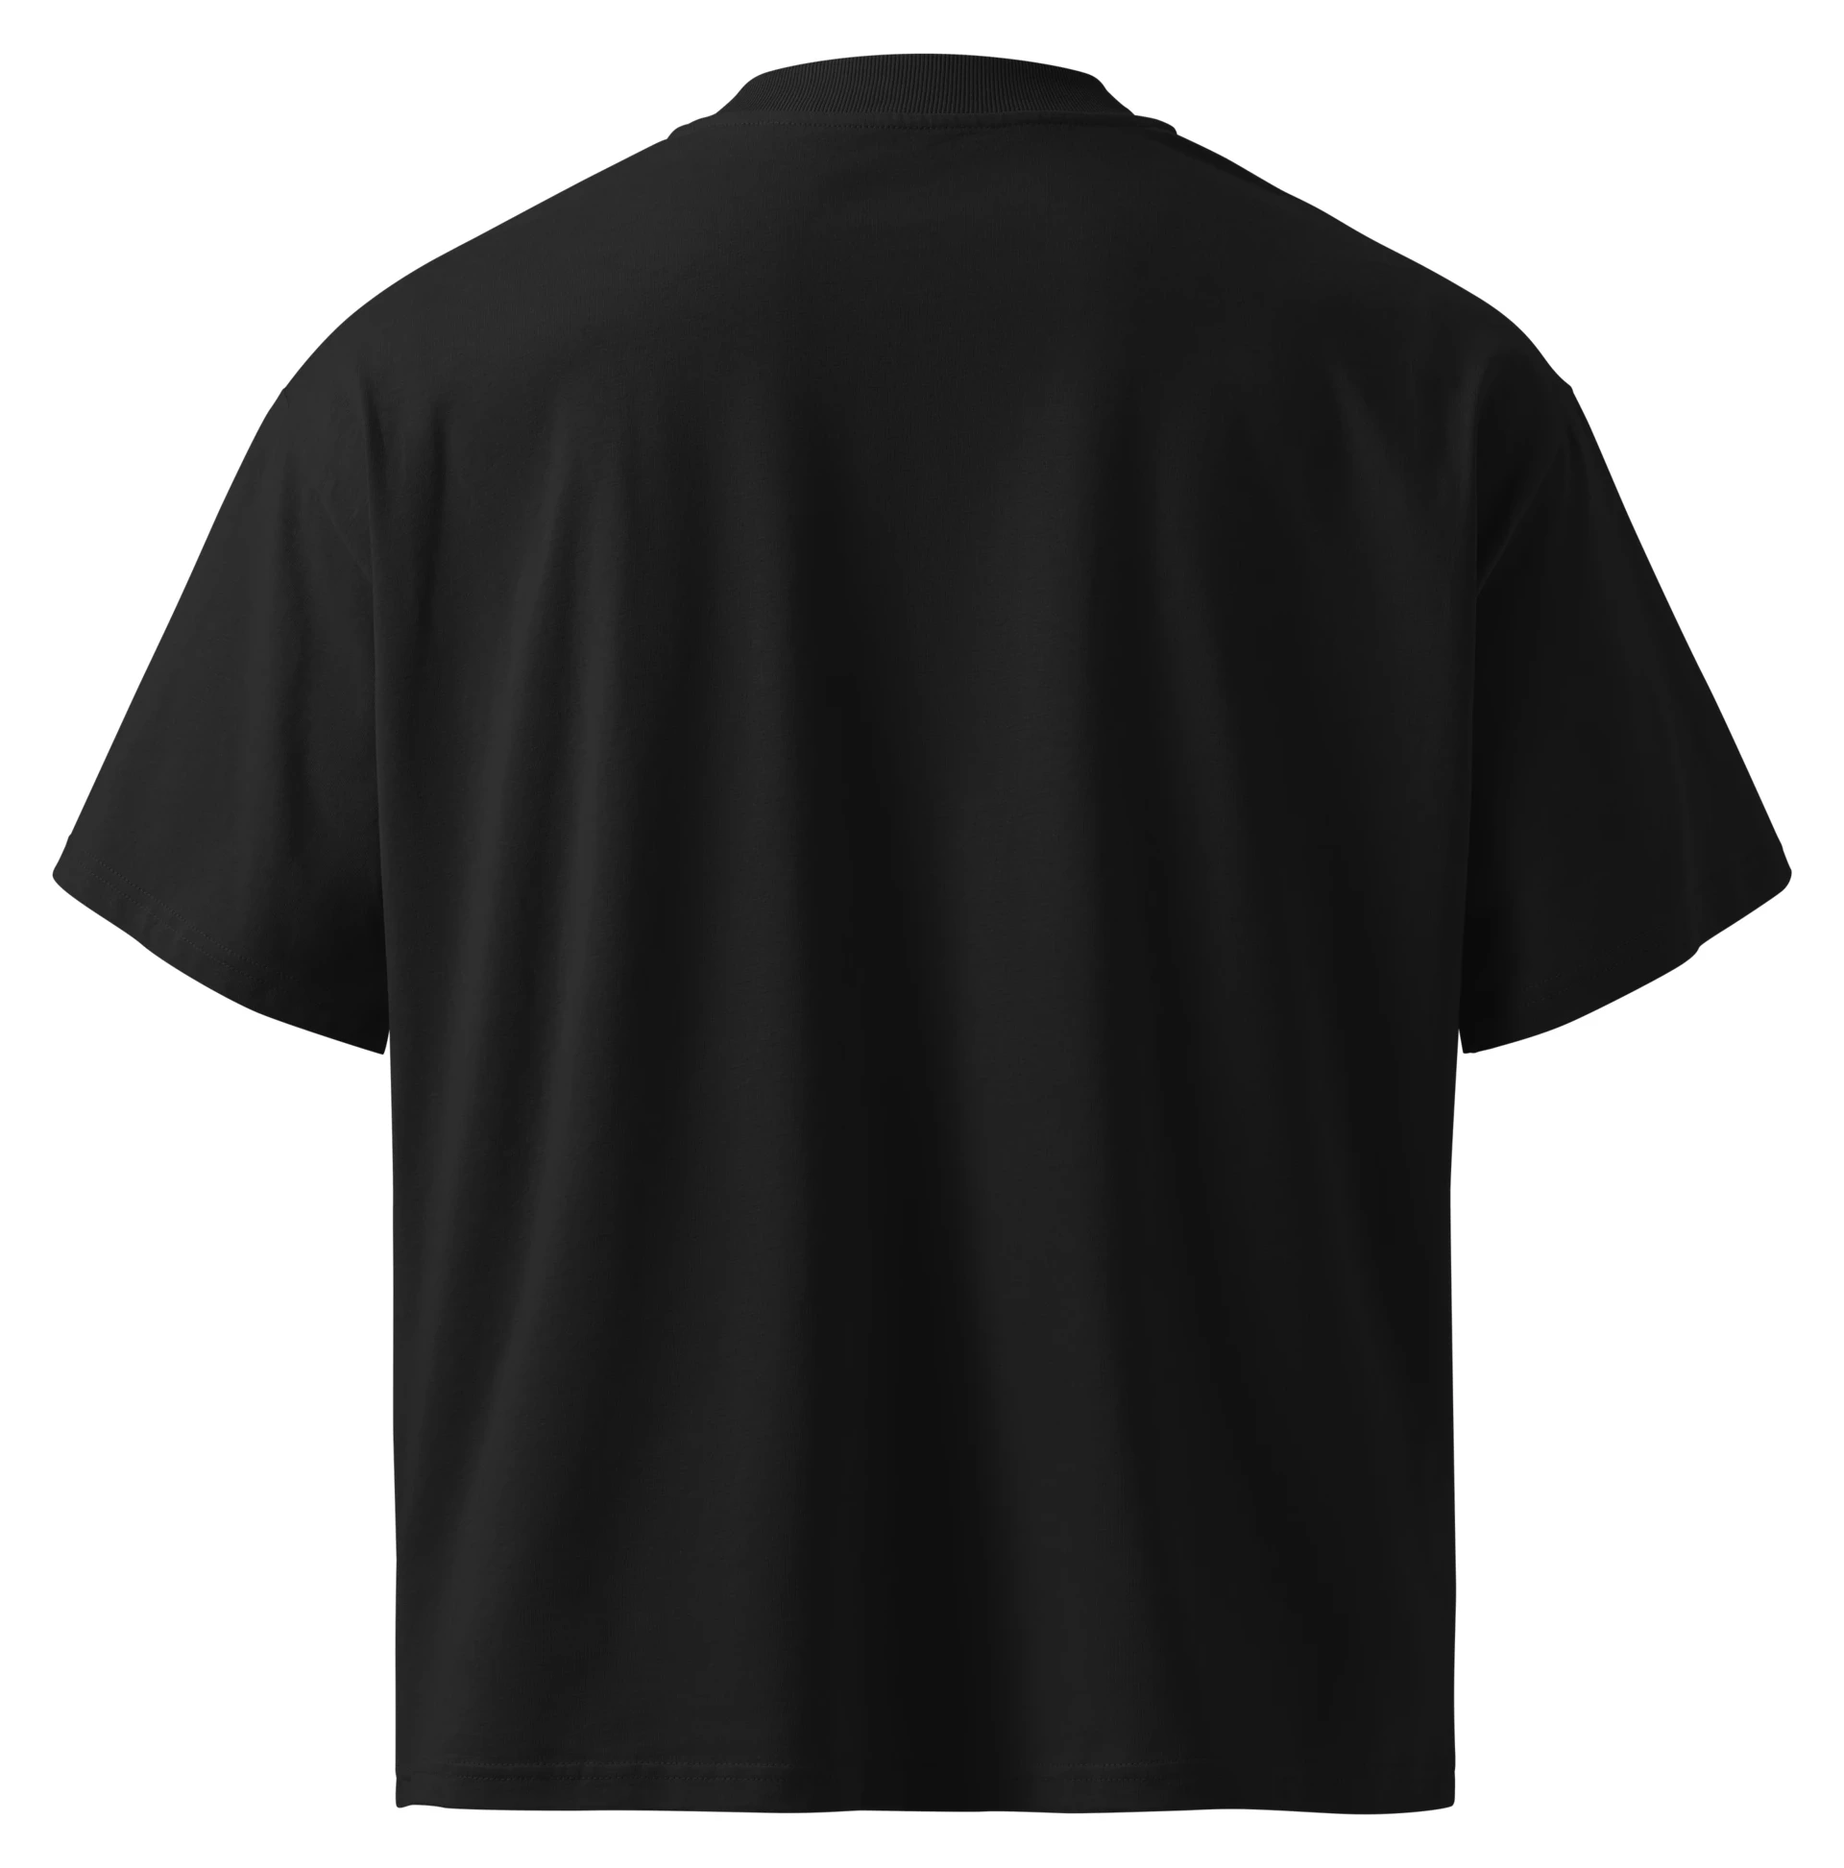
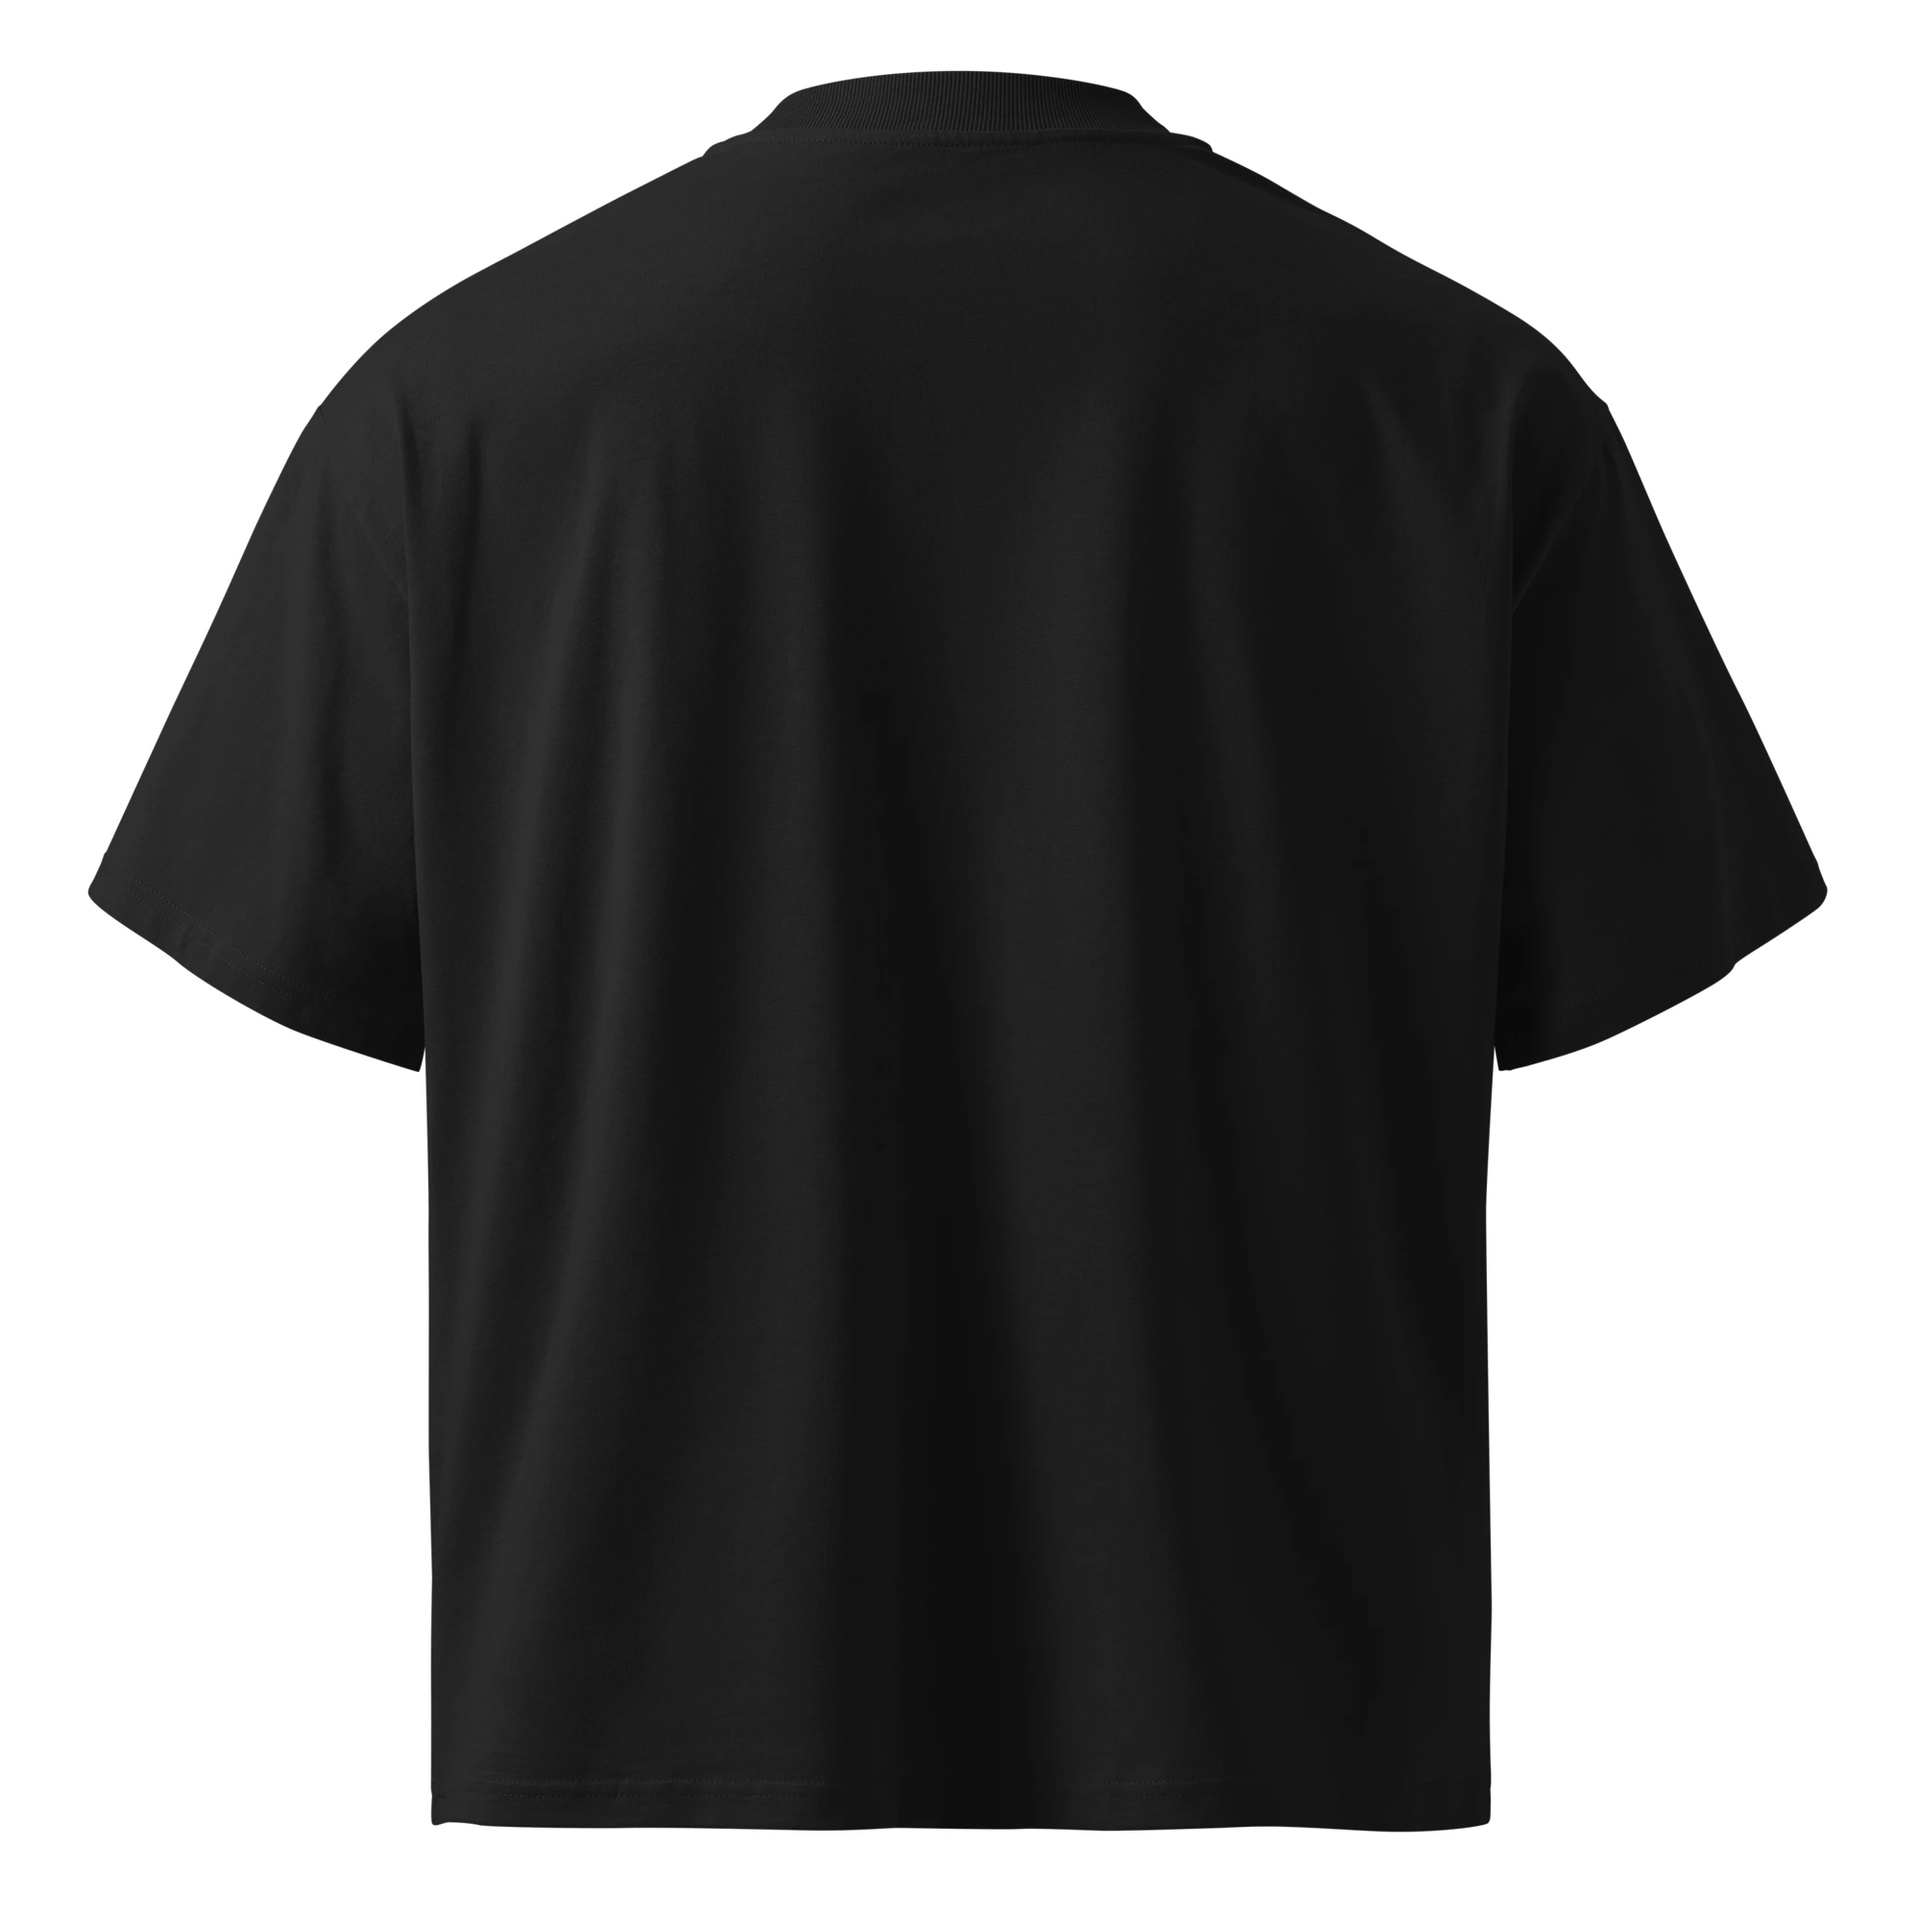
Revert garment photo cropping - keep native 2000x2000 for all mockups
The bbox-based tight-crop from the previous commit made every garment's
canvas a different pixel size (1976x1937, 1234x1921, 1492x1954...),
which broke the one thing that actually needs to be identical: the
frame/background size itself. Gal's instruction was direct - all
source PNGs are already a consistent 2000x2000 with a small transparent
margin; flatten that margin to white and leave the canvas exactly as
Printful provided it, no cropping, no per-garment adjustments.

Regenerated all 10 t-shirt/muscle-shirt/crop-hoodie/hoodie mockups with
the original convert-mockups.py (transparency -> white, native size,
no crop). Removed the now-unnecessary square-safe "-thumb" duplicate
files and scripts/normalize-garment-scale.py entirely - the plain
2000x2000 output already works for both the product-page contain view
and the catalog grid's cover view.

Verified: all garment mockups back to uniform 2000x2000, add-to-cart
price still correct.

diff --git a/bit-payment-details/index.html b/bit-payment-details/index.html
@@ -55,7 +55,7 @@
 <link rel="preconnect" href="https://fonts.googleapis.com">
 <link rel="preconnect" href="https://fonts.gstatic.com" crossorigin>
 <link href="https://fonts.googleapis.com/css2?family=Assistant:wght@300;400;500;600&display=swap" rel="stylesheet">
-<link rel="stylesheet" href="/css/style.css?v=fa42eb1a">
+<link rel="stylesheet" href="/css/style.css?v=0d9841b0">
 <style>
 :root {
   --scale-nav: 1;
@@ -710,12 +710,12 @@
 
 
 
-<script src="/js/bit-payment-details.js?v=fa42eb1a"></script>
+<script src="/js/bit-payment-details.js?v=0d9841b0"></script>
 
-<script src="/js/cart.js?v=fa42eb1a"></script>
-<script src="/js/nav-toggle.js?v=fa42eb1a"></script>
-<script src="/js/header-search.js?v=fa42eb1a"></script>
-<script src="/js/quick-links-toggle.js?v=fa42eb1a"></script>
-<script src="/js/footer-contact.js?v=fa42eb1a"></script>
+<script src="/js/cart.js?v=0d9841b0"></script>
+<script src="/js/nav-toggle.js?v=0d9841b0"></script>
+<script src="/js/header-search.js?v=0d9841b0"></script>
+<script src="/js/quick-links-toggle.js?v=0d9841b0"></script>
+<script src="/js/footer-contact.js?v=0d9841b0"></script>
 </body>
 </html>

diff --git a/shop/seed-of-joy-crop-hoodie/index.html b/shop/seed-of-joy-crop-hoodie/index.html
@@ -55,7 +55,7 @@
 <link rel="preconnect" href="https://fonts.googleapis.com">
 <link rel="preconnect" href="https://fonts.gstatic.com" crossorigin>
 <link href="https://fonts.googleapis.com/css2?family=Assistant:wght@300;400;500;600&display=swap" rel="stylesheet">
-<link rel="stylesheet" href="/css/style.css?v=fa42eb1a">
+<link rel="stylesheet" href="/css/style.css?v=0d9841b0">
 </head>
 <body id="top" data-whatsapp="972552902934">
 
@@ -758,14 +758,14 @@
 </footer>
 
 
-<script src="/js/back-link.js?v=fa42eb1a"></script>
+<script src="/js/back-link.js?v=0d9841b0"></script>
 
-<script src="/js/share.js?v=fa42eb1a"></script>
+<script src="/js/share.js?v=0d9841b0"></script>
 
-<script src="/js/product-gallery.js?v=fa42eb1a"></script>
+<script src="/js/product-gallery.js?v=0d9841b0"></script>
 
-<script src="/js/cart.js?v=fa42eb1a"></script>
-<script src="/js/nav-toggle.js?v=fa42eb1a"></script>
-<script src="/js/header-search.js?v=fa42eb1a"></script>
+<script src="/js/cart.js?v=0d9841b0"></script>
+<script src="/js/nav-toggle.js?v=0d9841b0"></script>
+<script src="/js/header-search.js?v=0d9841b0"></script>
 </body>
 </html>

diff --git a/shop/seed-of-joy-hoodie/index.html b/shop/seed-of-joy-hoodie/index.html
@@ -55,7 +55,7 @@
 <link rel="preconnect" href="https://fonts.googleapis.com">
 <link rel="preconnect" href="https://fonts.gstatic.com" crossorigin>
 <link href="https://fonts.googleapis.com/css2?family=Assistant:wght@300;400;500;600&display=swap" rel="stylesheet">
-<link rel="stylesheet" href="/css/style.css?v=fa42eb1a">
+<link rel="stylesheet" href="/css/style.css?v=0d9841b0">
 </head>
 <body id="top" data-whatsapp="972552902934">
 
@@ -866,14 +866,14 @@
 </footer>
 
 
-<script src="/js/back-link.js?v=fa42eb1a"></script>
+<script src="/js/back-link.js?v=0d9841b0"></script>
 
-<script src="/js/share.js?v=fa42eb1a"></script>
+<script src="/js/share.js?v=0d9841b0"></script>
 
-<script src="/js/product-gallery.js?v=fa42eb1a"></script>
+<script src="/js/product-gallery.js?v=0d9841b0"></script>
 
-<script src="/js/cart.js?v=fa42eb1a"></script>
-<script src="/js/nav-toggle.js?v=fa42eb1a"></script>
-<script src="/js/header-search.js?v=fa42eb1a"></script>
+<script src="/js/cart.js?v=0d9841b0"></script>
+<script src="/js/nav-toggle.js?v=0d9841b0"></script>
+<script src="/js/header-search.js?v=0d9841b0"></script>
 </body>
 </html>

diff --git a/shop/seed-of-joy-muscle-shirt/index.html b/shop/seed-of-joy-muscle-shirt/index.html
@@ -55,7 +55,7 @@
 <link rel="preconnect" href="https://fonts.googleapis.com">
 <link rel="preconnect" href="https://fonts.gstatic.com" crossorigin>
 <link href="https://fonts.googleapis.com/css2?family=Assistant:wght@300;400;500;600&display=swap" rel="stylesheet">
-<link rel="stylesheet" href="/css/style.css?v=fa42eb1a">
+<link rel="stylesheet" href="/css/style.css?v=0d9841b0">
 </head>
 <body id="top" data-whatsapp="972552902934">
 
@@ -758,14 +758,14 @@
 </footer>
 
 
-<script src="/js/back-link.js?v=fa42eb1a"></script>
+<script src="/js/back-link.js?v=0d9841b0"></script>
 
-<script src="/js/share.js?v=fa42eb1a"></script>
+<script src="/js/share.js?v=0d9841b0"></script>
 
-<script src="/js/product-gallery.js?v=fa42eb1a"></script>
+<script src="/js/product-gallery.js?v=0d9841b0"></script>
 
-<script src="/js/cart.js?v=fa42eb1a"></script>
-<script src="/js/nav-toggle.js?v=fa42eb1a"></script>
-<script src="/js/header-search.js?v=fa42eb1a"></script>
+<script src="/js/cart.js?v=0d9841b0"></script>
+<script src="/js/nav-toggle.js?v=0d9841b0"></script>
+<script src="/js/header-search.js?v=0d9841b0"></script>
 </body>
 </html>

diff --git a/shop/seed-of-joy-stickers/index.html b/shop/seed-of-joy-stickers/index.html
@@ -55,7 +55,7 @@
 <link rel="preconnect" href="https://fonts.googleapis.com">
 <link rel="preconnect" href="https://fonts.gstatic.com" crossorigin>
 <link href="https://fonts.googleapis.com/css2?family=Assistant:wght@300;400;500;600&display=swap" rel="stylesheet">
-<link rel="stylesheet" href="/css/style.css?v=fa42eb1a">
+<link rel="stylesheet" href="/css/style.css?v=0d9841b0">
 </head>
 <body id="top" data-whatsapp="972552902934">
 
@@ -740,14 +740,14 @@
 </footer>
 
 
-<script src="/js/back-link.js?v=fa42eb1a"></script>
+<script src="/js/back-link.js?v=0d9841b0"></script>
 
-<script src="/js/share.js?v=fa42eb1a"></script>
+<script src="/js/share.js?v=0d9841b0"></script>
 
-<script src="/js/product-gallery.js?v=fa42eb1a"></script>
+<script src="/js/product-gallery.js?v=0d9841b0"></script>
 
-<script src="/js/cart.js?v=fa42eb1a"></script>
-<script src="/js/nav-toggle.js?v=fa42eb1a"></script>
-<script src="/js/header-search.js?v=fa42eb1a"></script>
+<script src="/js/cart.js?v=0d9841b0"></script>
+<script src="/js/nav-toggle.js?v=0d9841b0"></script>
+<script src="/js/header-search.js?v=0d9841b0"></script>
 </body>
 </html>

diff --git a/shop/seed-of-joy-tshirt/index.html b/shop/seed-of-joy-tshirt/index.html
@@ -55,7 +55,7 @@
 <link rel="preconnect" href="https://fonts.googleapis.com">
 <link rel="preconnect" href="https://fonts.gstatic.com" crossorigin>
 <link href="https://fonts.googleapis.com/css2?family=Assistant:wght@300;400;500;600&display=swap" rel="stylesheet">
-<link rel="stylesheet" href="/css/style.css?v=fa42eb1a">
+<link rel="stylesheet" href="/css/style.css?v=0d9841b0">
 </head>
 <body id="top" data-whatsapp="972552902934">
 
@@ -856,14 +856,14 @@
 </footer>
 
 
-<script src="/js/back-link.js?v=fa42eb1a"></script>
+<script src="/js/back-link.js?v=0d9841b0"></script>
 
-<script src="/js/share.js?v=fa42eb1a"></script>
+<script src="/js/share.js?v=0d9841b0"></script>
 
-<script src="/js/product-gallery.js?v=fa42eb1a"></script>
+<script src="/js/product-gallery.js?v=0d9841b0"></script>
 
-<script src="/js/cart.js?v=fa42eb1a"></script>
-<script src="/js/nav-toggle.js?v=fa42eb1a"></script>
-<script src="/js/header-search.js?v=fa42eb1a"></script>
+<script src="/js/cart.js?v=0d9841b0"></script>
+<script src="/js/nav-toggle.js?v=0d9841b0"></script>
+<script src="/js/header-search.js?v=0d9841b0"></script>
 </body>
 </html>

diff --git a/admin-bit-receipts/index.html b/admin-bit-receipts/index.html
@@ -47,7 +47,7 @@
 <link rel="preconnect" href="https://fonts.googleapis.com">
 <link rel="preconnect" href="https://fonts.gstatic.com" crossorigin>
 <link href="https://fonts.googleapis.com/css2?family=Assistant:wght@300;400;500;600&display=swap" rel="stylesheet">
-<link rel="stylesheet" href="/css/style.css?v=fa42eb1a">
+<link rel="stylesheet" href="/css/style.css?v=0d9841b0">
 </head>
 <body id="top" data-whatsapp="972552902934">
 
@@ -1628,8 +1628,8 @@
 </footer>
 
 
-<script src="/js/cart.js?v=fa42eb1a"></script>
-<script src="/js/nav-toggle.js?v=fa42eb1a"></script>
-<script src="/js/header-search.js?v=fa42eb1a"></script>
+<script src="/js/cart.js?v=0d9841b0"></script>
+<script src="/js/nav-toggle.js?v=0d9841b0"></script>
+<script src="/js/header-search.js?v=0d9841b0"></script>
 </body>
 </html>

diff --git a/admin-bookings/index.html b/admin-bookings/index.html
@@ -47,7 +47,7 @@
 <link rel="preconnect" href="https://fonts.googleapis.com">
 <link rel="preconnect" href="https://fonts.gstatic.com" crossorigin>
 <link href="https://fonts.googleapis.com/css2?family=Assistant:wght@300;400;500;600&display=swap" rel="stylesheet">
-<link rel="stylesheet" href="/css/style.css?v=fa42eb1a">
+<link rel="stylesheet" href="/css/style.css?v=0d9841b0">
 </head>
 <body id="top" data-whatsapp="972552902934">
 
@@ -595,8 +595,8 @@
 </footer>
 
 
-<script src="/js/cart.js?v=fa42eb1a"></script>
-<script src="/js/nav-toggle.js?v=fa42eb1a"></script>
-<script src="/js/header-search.js?v=fa42eb1a"></script>
+<script src="/js/cart.js?v=0d9841b0"></script>
+<script src="/js/nav-toggle.js?v=0d9841b0"></script>
+<script src="/js/header-search.js?v=0d9841b0"></script>
 </body>
 </html>

diff --git a/admin-cancel-order/index.html b/admin-cancel-order/index.html
@@ -47,7 +47,7 @@
 <link rel="preconnect" href="https://fonts.googleapis.com">
 <link rel="preconnect" href="https://fonts.gstatic.com" crossorigin>
 <link href="https://fonts.googleapis.com/css2?family=Assistant:wght@300;400;500;600&display=swap" rel="stylesheet">
-<link rel="stylesheet" href="/css/style.css?v=fa42eb1a">
+<link rel="stylesheet" href="/css/style.css?v=0d9841b0">
 </head>
 <body id="top" data-whatsapp="972552902934">
 
@@ -584,8 +584,8 @@
 </footer>
 
 
-<script src="/js/cart.js?v=fa42eb1a"></script>
-<script src="/js/nav-toggle.js?v=fa42eb1a"></script>
-<script src="/js/header-search.js?v=fa42eb1a"></script>
+<script src="/js/cart.js?v=0d9841b0"></script>
+<script src="/js/nav-toggle.js?v=0d9841b0"></script>
+<script src="/js/header-search.js?v=0d9841b0"></script>
 </body>
 </html>

diff --git a/admin-coupons/index.html b/admin-coupons/index.html
@@ -47,7 +47,7 @@
 <link rel="preconnect" href="https://fonts.googleapis.com">
 <link rel="preconnect" href="https://fonts.gstatic.com" crossorigin>
 <link href="https://fonts.googleapis.com/css2?family=Assistant:wght@300;400;500;600&display=swap" rel="stylesheet">
-<link rel="stylesheet" href="/css/style.css?v=fa42eb1a">
+<link rel="stylesheet" href="/css/style.css?v=0d9841b0">
 </head>
 <body id="top" data-whatsapp="972552902934">
 
@@ -685,8 +685,8 @@
 </footer>
 
 
-<script src="/js/cart.js?v=fa42eb1a"></script>
-<script src="/js/nav-toggle.js?v=fa42eb1a"></script>
-<script src="/js/header-search.js?v=fa42eb1a"></script>
+<script src="/js/cart.js?v=0d9841b0"></script>
+<script src="/js/nav-toggle.js?v=0d9841b0"></script>
+<script src="/js/header-search.js?v=0d9841b0"></script>
 </body>
 </html>
